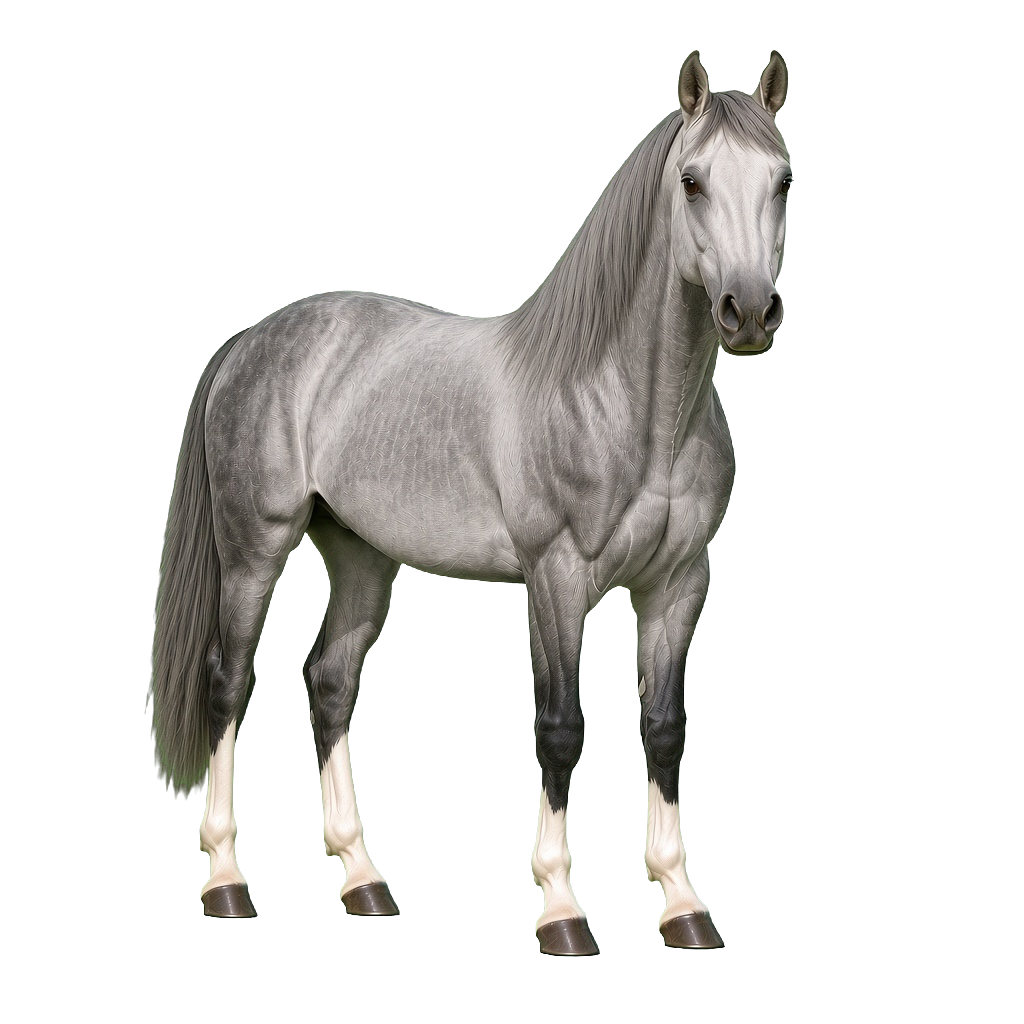
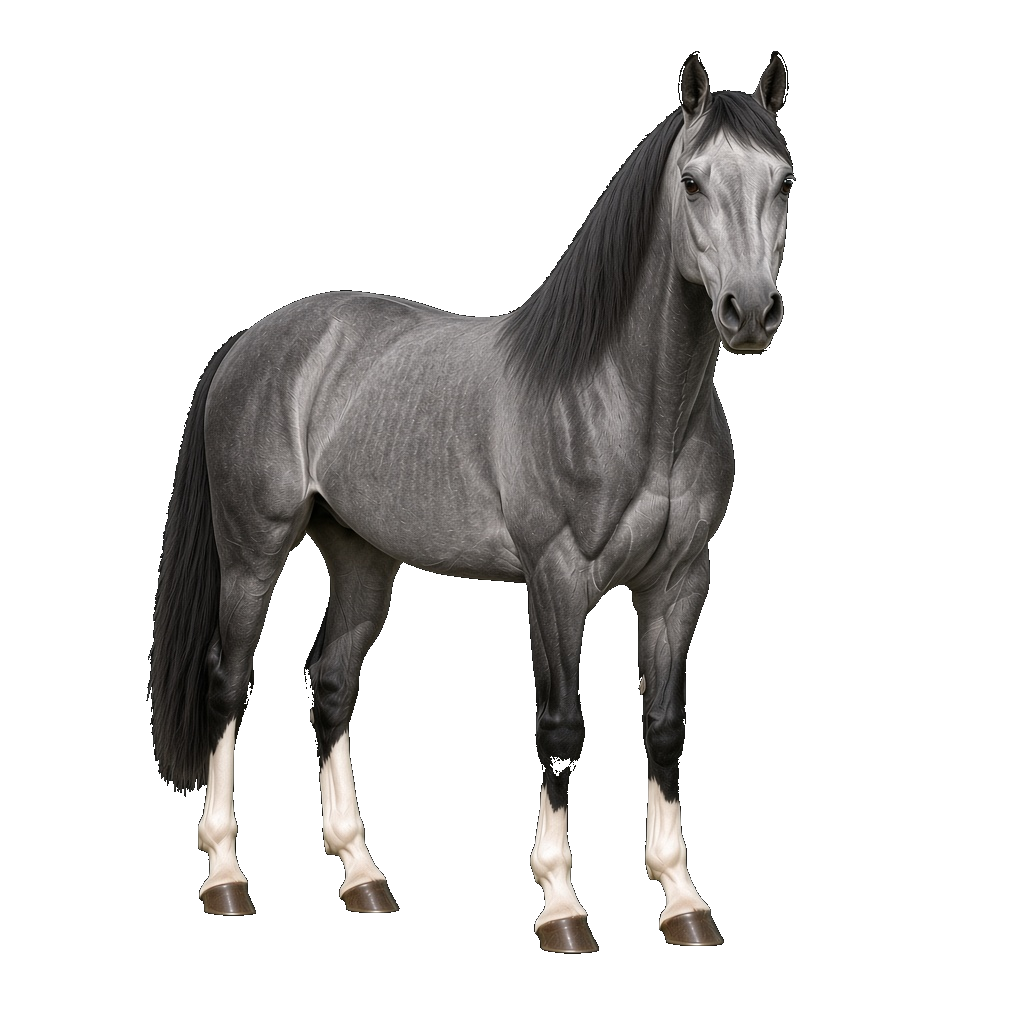
✨ feat: update Paint Horse grey and disable bald

diff --git a/packages/core/src/lib/plugin/plugin-loader.spec.ts b/packages/core/src/lib/plugin/plugin-loader.spec.ts
@@ -54,7 +54,7 @@ describe('loadPlugin', () => {
 
     expect(plugin.manifest.name).toBe('horse');
     expect(plugin.manifest.layers).toHaveLength(17);
-    expect(plugin.manifest.constraints).toHaveLength(19);
+    expect(plugin.manifest.constraints).toHaveLength(20);
     expect(plugin.index.layers.get('markings')?.options).toHaveLength(10);
     expect(plugin.index.layers.get('markings-foal')?.options).toHaveLength(10);
     expect(plugin.index.layers.get('markings-lusitano')?.options).toHaveLength(
